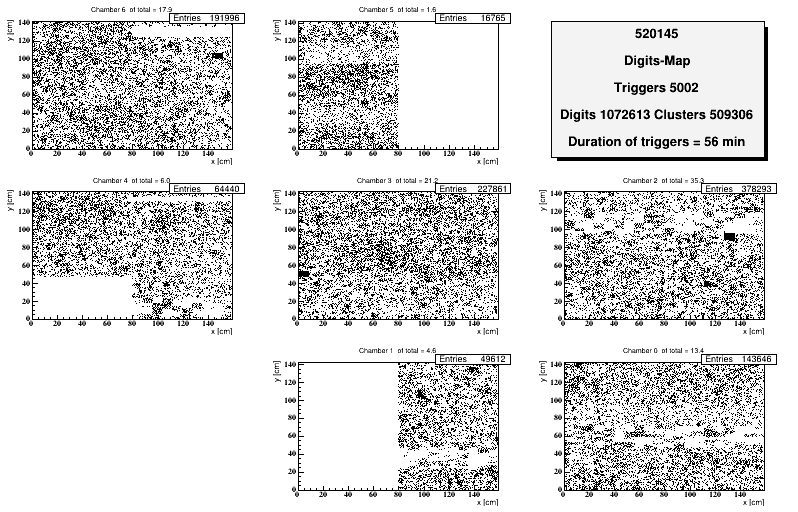
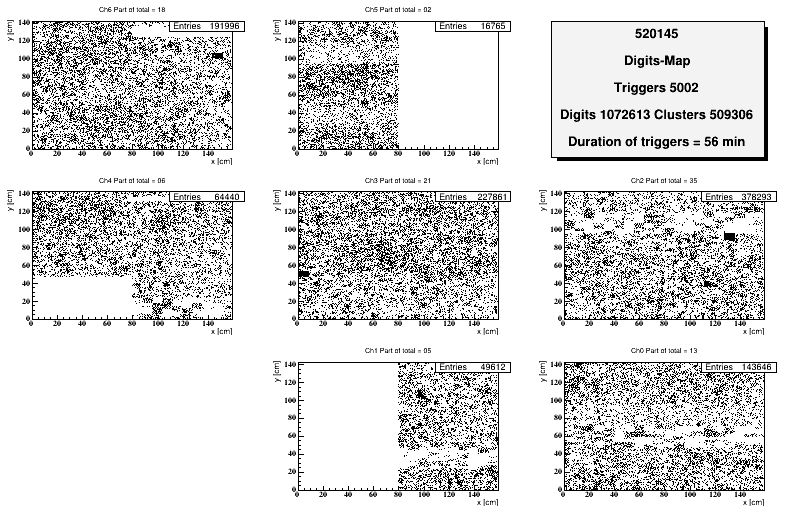
ok, but num bins in histograms?

diff --git a/520145/readClusters.C b/520145/readClusters.C
@@ -136,8 +136,8 @@ void readClusters(int nEvents) {
   for (int i = 0; i < 7; i++) {
 
     const char* canStringMip = Form("MIP-Charge %i", i);
-    //hMipCharge[i].reset(new TH1F(canStringMip, canStringMip, 50, 200., 2200.));
     hMipCharge[i].reset(new TH1F(canStringMip, canStringMip, 50, 200., 2200.));
+    //hMipCharge[i].reset(new TH1F(canStringMip, canStringMip, 500, 200., 2200.));
     hMipCharge[i]->SetXTitle("Charge (ADC channel)");
     hMipCharge[i]->SetYTitle("Entries/40 ADC");
     hMipCharge[i]->SetStats(kTRUE);
@@ -278,7 +278,7 @@ void readClusters(int nEvents) {
 
     pad5->SetBottomMargin(.0015+pad5->GetBottomMargin());
     pad5->SetRightMargin(-.0025+pad5->GetRightMargin());
-    digMap[iCh]->SetTitle(Form("Ch%i % of total = %02.0f", iCh, pTotalDigs));
+    digMap[iCh]->SetTitle(Form("Chamber%i; Percentage of total = %02.0f", iCh, pTotalDigs));
     digMap[iCh]->Draw();
   }
   gStyle->SetOptStat("e");
@@ -535,7 +535,7 @@ void changeFont()
   gStyle->SetStatW(0.3);
   gStyle->SetStatH(0.25);
   gStyle->SetStatFontSize(0.065);
-  gStyle->SetLegendTextSize(0.065);//
+  gStyle->SetLegendTextSize(0.08);//
 
   gStyle->SetTitleSize(.055, "xzy");
   gStyle->SetTitleOffset(.925, "xz");//.95
